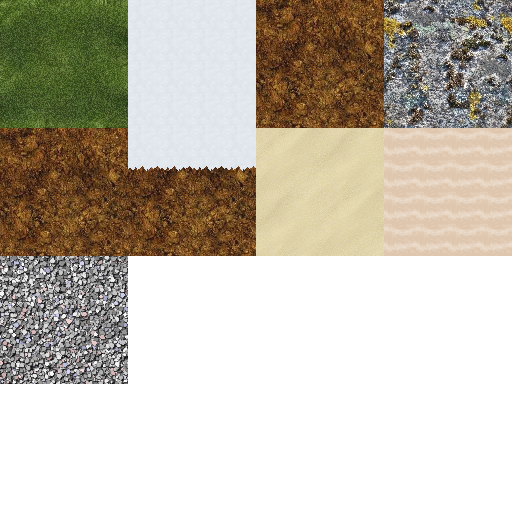
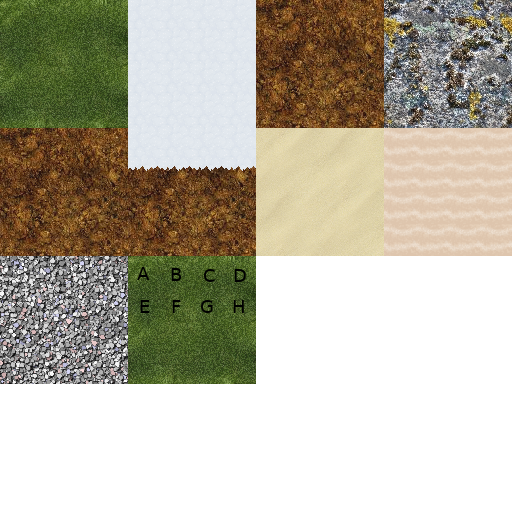
Optimize torchlight and re-enable it

Changed region(s): [[0.25, 0.5, 0.5, 0.75]]

diff --git a/src/lighting.cpp b/src/lighting.cpp
@@ -80,51 +80,56 @@ namespace cppcraft
 
   void Lighting::torchlight(Sector& sector)
   {
-    for (int x = 0; x < BLOCKS_XZ; x++)
-    for (int z = 0; z < BLOCKS_XZ; z++)
-	  for (int y = 1; y <= sector.flat()(x, z).groundLevel; y++)
+    printf("Highest light point for %d,%d is %d\n",
+          sector.getX(), sector.getZ(), sector.getHighestLightPoint());
+    for (int y = 1; y <= sector.getHighestLightPoint(); y++)
+    if (sector.hasLight(y))
     {
-		  Block& block = sector(x, y, z);
+      for (int x = 0; x < BLOCKS_XZ; x++)
+      for (int z = 0; z < BLOCKS_XZ; z++)
+      {
+  		  Block& block = sector(x, y, z);
 
-      if (block.isLight())
-		  {
-  			const int ch = 1;
+        if (block.isLight())
+  		  {
+    			const int ch = 1;
 
-  			// set to max blocklight value
-        uint8_t opacity = block.getOpacity(0);
-        block.setChannel(ch, opacity);
+    			// set to max blocklight value
+          uint8_t opacity = block.getOpacity(0);
+          block.setChannel(ch, opacity);
 
-        // mask out impossible paths
-        int mask = 63;
-        if (x < BLOCKS_XZ-1)
-          if (!sector(x+1, y, z).isTransparent()) mask &= ~1;
-        if (x > 0)
-          if (!sector(x-1, y, z).isTransparent()) mask &= ~2;
+          // mask out impossible paths
+          int mask = 63;
+          if (x < BLOCKS_XZ-1)
+            if (!sector(x+1, y, z).isTransparent()) mask &= ~1;
+          if (x > 0)
+            if (!sector(x-1, y, z).isTransparent()) mask &= ~2;
 
-        if (!sector(x, y+1, z).isTransparent()) mask &= ~4;
-        if (!sector(x, y-1, z).isTransparent()) mask &= ~8;
+          if (!sector(x, y+1, z).isTransparent()) mask &= ~4;
+          if (!sector(x, y-1, z).isTransparent()) mask &= ~8;
 
-        if (z < BLOCKS_XZ-1)
-          if (!sector(x, y, z+1).isTransparent()) mask &= ~16;
-        if (z > 0)
-          if (!sector(x, y, z-1).isTransparent()) mask &= ~32;
+          if (z < BLOCKS_XZ-1)
+            if (!sector(x, y, z+1).isTransparent()) mask &= ~16;
+          if (z > 0)
+            if (!sector(x, y, z-1).isTransparent()) mask &= ~32;
 
-        // propagate block light in all directions
-        if (mask & 1)
-          propagateChannel(&sector, x, y, z, {ch, 0, opacity}); // +x
-        if (mask & 2)
-          propagateChannel(&sector, x, y, z, {ch, 1, opacity}); // -x
-        if (mask & 4)
-          propagateChannel(&sector, x, y, z, {ch, 2, opacity}); // +y
-        if (mask & 8)
-          propagateChannel(&sector, x, y, z, {ch, 3, opacity}); // -y
-        if (mask & 16)
-          propagateChannel(&sector, x, y, z, {ch, 4, opacity}); // +z
-        if (mask & 32)
-          propagateChannel(&sector, x, y, z, {ch, 5, opacity}); // -z
+          // propagate block light in all directions
+          if (mask & 1)
+            propagateChannel(&sector, x, y, z, {ch, 0, opacity}); // +x
+          if (mask & 2)
+            propagateChannel(&sector, x, y, z, {ch, 1, opacity}); // -x
+          if (mask & 4)
+            propagateChannel(&sector, x, y, z, {ch, 2, opacity}); // +y
+          if (mask & 8)
+            propagateChannel(&sector, x, y, z, {ch, 3, opacity}); // -y
+          if (mask & 16)
+            propagateChannel(&sector, x, y, z, {ch, 4, opacity}); // +z
+          if (mask & 32)
+            propagateChannel(&sector, x, y, z, {ch, 5, opacity}); // -z
 
-  		} // isLight()
-    } // x, z, y
+    		} // isLight()
+      } // x, z
+    } // is light source(y)
 
   } // atmospheric flood
 

diff --git a/src/precomp_thread_light.cpp b/src/precomp_thread_light.cpp
@@ -13,7 +13,7 @@ namespace cppcraft
 		for (int ch = 0; ch < Block::CHANNELS; ch++)
 		{
 			int V = block.getChannel(ch);
-			RGBA |= ((V << 4) | V) << (ch * 8);
+			RGBA |= (V * 17) << (ch * 8);
 		}
 		return RGBA;
 	}
@@ -25,7 +25,7 @@ namespace cppcraft
                                  int x4, int y4, int z4)
 	{
     auto& pcl = get_light(x1, y1, z1);
-    if (pcl) return pcl & 0xFF;
+    if (pcl) return pcl & 0xFFFF;
 
 		// TODO: calculate the actual light values...
 		Block* bl[4];
@@ -34,25 +34,36 @@ namespace cppcraft
 		bl[2] = &sector->get(x3, y3, z3);
 		bl[3] = &sector->get(x4, y4, z4);
 
-		uint8_t V = 0;
-    int total = 0;
-		for (int i = 0; i < 4; i++)
-		{
-      if (bl[i]->isTransparent()) {
-			     V += bl[i]->getChannel(0);
-           total++;
+    light_value_t final_light = 0;
+    for (int ch = 0; ch < Block::CHANNELS; ch++)
+    {
+  		uint8_t V = 0;
+      int total = 0;
+  		for (int i = 0; i < 4; i++)
+  		{
+        if (bl[i]->isTransparent()) {
+  			     V += bl[i]->getChannel(ch);
+             total++;
+        }
+  		}
+      if (total != 0)
+      {
+        if (ch == 0)
+        {
+          const float lv = (float) V / total;
+          float factor = 1.0f - std::min(y1 , WATERLEVEL) / (float) BLOCKS_Y;
+          float light = powf(0.88f, (15.0f - lv) * factor * factor);
+          final_light |= int(25 + 230.0f * light);
+        }
+        else
+        {
+          const float lv = (float) V / total;
+          final_light |= int(lv * 17) << (ch * 8);
+        }
       }
-		}
-    if (total != 0) {
-       const float lv = (float) V / total;
-       float factor = 1.0f - std::min(y1 , WATERLEVEL) / (float) BLOCKS_Y;
-       float light = powf(0.88f, (15.0f - lv) * factor * factor);
-       short final_light = 25 + 230.0f * light;
-       pcl = final_light | 0x100;
-       return final_light;
     }
-    pcl = 0x100;
-    return 0;
+    pcl = final_light | 0x10000;
+    return final_light;
 	}
 
 

diff --git a/src/generator/blocks.cpp b/src/generator/blocks.cpp
@@ -136,6 +136,34 @@ namespace terragen
 			solid.getSound = [] (const Block&) { return "grass"; };
 			db.assign("grass_block", solid);
 		}
+    // grass_random (green, snow, ...)
+		{
+			auto& solid = BlockData::createSolid();
+			solid.setColorIndex(Biomes::CL_GRASS);
+			solid.minimapColor =
+			[] (const Block& b, const Sector& s, int x, int, int z)
+			{
+				if (b.getBits() == 0)
+					return s.flat()(x, z).fcolor[Biomes::CL_GRASS];
+				else
+					return BGRA8(255, 255, 255, 255);
+			};
+			solid.getName = [] (const Block&) { return "Grass Block w/Flowers"; };
+      const short soil = tiledb.bigtiles("soil");
+      const short grass_top = tiledb.bigtiles("grass_random");
+      const short grass_side = tiledb.bigtiles("grass_side");
+      solid.useTextureFunction(
+			[soil, grass_top, grass_side] (const Block&, uint8_t face)
+			{
+				if (face == 2) return grass_top;
+        if (face != 3) return grass_side;
+				return soil; // bottom
+			});
+			solid.repeat_y = false;
+      solid.shader = RenderConst::TX_REPEAT;
+			solid.getSound = [] (const Block&) { return "grass"; };
+			db.assign("grass_random", solid);
+		}
 		// _SNOW
 		{
 			auto& solid = BlockData::createSolid();
@@ -222,7 +250,7 @@ namespace terragen
 			fluid.shader = RenderConst::TX_LAVA;
 			fluid.setBlock(false);
 			fluid.transparent = false;
-			fluid.setLightColor(6, 7, 3);
+			fluid.setLightColor(10, 7, 3);
 			db.assign("lava", fluid);
 		}
 

diff --git a/src/sector.hpp b/src/sector.hpp
@@ -32,10 +32,19 @@ namespace cppcraft
 			}
 
 			std::array<Block, BLOCKS_XZ * BLOCKS_XZ * BLOCKS_Y> b;
+      std::array<uint64_t, BLOCKS_Y / 64> lights;
 			short blocks = 0;
-			short lights = 0;
+      short highest_light_y = 0;
 			unsigned short nothing_yet = 0;
 			unsigned short checksum = 0;
+
+      inline void setLight(short y) noexcept {
+        lights.at(y / 64) |= 1 << (y % 64);
+        highest_light_y = std::max(highest_light_y, y);
+      }
+      inline bool getLight(int y) const noexcept {
+        return lights.at(y / 64) & (1 << (y % 64));
+      }
 		};
     static_assert(sizeof(sectorblock_t::b) == BLOCKS_XZ*BLOCKS_XZ*BLOCKS_Y* sizeof(Block),
                   "The sectorblock array must be the size of an entire sector");
@@ -85,10 +94,8 @@ namespace cppcraft
 		{
 			return m_blocks->blocks;
 		}
-		short lightCount() const noexcept
-		{
-			return m_blocks->lights;
-		}
+    bool hasLight(int y) const noexcept { return m_blocks->getLight(y); }
+    int getHighestLightPoint() const { return m_blocks->highest_light_y; }
 
 		// fill sector with air
 		void clear();
@@ -141,10 +148,6 @@ namespace cppcraft
 
 		// distance to another sector (in block units)
 		float distanceTo(const Sector& sector, int bx, int bz) const;
-
-		// torchlight related
-		// counts total lights in chunk AND returns that count
-		int countLights();
 
 		sectorblock_t& getBlocks()
 		{

diff --git a/src/spiders_modify.cpp b/src/spiders_modify.cpp
@@ -1,10 +1,10 @@
 #include "spiders.hpp"
 
 #include <library/log.hpp>
+#include <common.hpp>
 #include "chunks.hpp"
 #include "lighting.hpp"
 #include "sectors.hpp"
-#include <assert.h>
 using namespace library;
 
 static int64_t total_blocks_placed = 0;
@@ -83,7 +83,11 @@ namespace cppcraft
 		// for lights, we will flood lighting outwards
 		if (UNLIKELY(blk.isLight()))
 		{
+      // mark light existing at by
+      s->getBlocks().setLight(by);
+      // set light source level for block
 			blk.setTorchLight(blk.getOpacity(0));
+      // start flooding
 			Lighting::floodOutof(s->getX()*BLOCKS_XZ + bx, by, s->getZ()*BLOCKS_XZ + bz, 1, blk.getTorchLight());
 		}
 

diff --git a/src/generator/terrain/t_grass.cpp b/src/generator/terrain/t_grass.cpp
@@ -181,6 +181,8 @@ namespace terragen
 
 						// TODO: use poisson disc here
 						float rand = randf(wx, y, wz);
+            if (rand >= 0.6 && rand <= 0.61)
+                  block.setID(db::getb("grass_random"));
 
 						/// terrain specific objects ///
             if (rand < 0.00005 && air > 40) {
@@ -232,6 +234,8 @@ namespace terragen
 				//if (block.isTransparent() == false)
 				if (groundLevel == 0)
 					   groundLevel = y+1;
+       // mark this Y-value as having a light source
+       if (block.isLight()) gdata->setLight(y);
 			}
 
 			// use skylevel to determine when we are below sky

diff --git a/src/generator/terragen.hpp b/src/generator/terragen.hpp
@@ -33,6 +33,8 @@ namespace terragen
 
 			// allocate new block data to avoid a copy at the end
 			sblock.reset(new Sector::sectorblock_t);
+      // clear light bits, just to be sure
+      for (auto& bits : sblock->lights) bits = 0;
 			// create new flatland data, since it isnt allocated by default :(
 			flatl.assign(std::vector<Flatland::flatland_t> (BLOCKS_XZ*BLOCKS_XZ));
 		}
@@ -61,6 +63,7 @@ namespace terragen
 		{
 			return (*sblock)(x, y, z);
 		}
+    inline void setLight(int y) { sblock->setLight(y); }
 
     // schedule object for creation
     template <typename... Args>

diff --git a/src/sector.cpp b/src/sector.cpp
@@ -22,20 +22,6 @@ namespace cppcraft
 		return world.getWZ() + this->z;
 	}
 
-	int Sector::countLights()
-	{
-		if (hasBlocks() == false) throw std::string("Sector::countLights(): Sector had no blocks");
-
-		int lights = 0;
-		for (const Block& block : m_blocks->b)
-		{
-			if (block.isLight()) lights++;
-		}
-
-		m_blocks->lights = lights;
-		return lights;
-	}
-
 	float Sector::distanceTo(const Sector& sector, int bx, int bz) const
 	{
 		// centroidal

diff --git a/src/precomp_thread_data.hpp b/src/precomp_thread_data.hpp
@@ -20,7 +20,7 @@ namespace cppcraft
     std::array<std::vector<vertex_t>, RenderConst::MAX_UNIQUE_SHADERS> vertices;
     // precomputed smooth light
     alignas(32)
-    std::array<short, (BLOCKS_XZ+2) * (BLOCKS_XZ+2) * BLOCKS_Y> light_info;
+    std::array<int, (BLOCKS_XZ+2) * (BLOCKS_XZ+2) * BLOCKS_Y> light_info;
 
     inline auto& get_light(int bx, int by, int bz)
 		{
